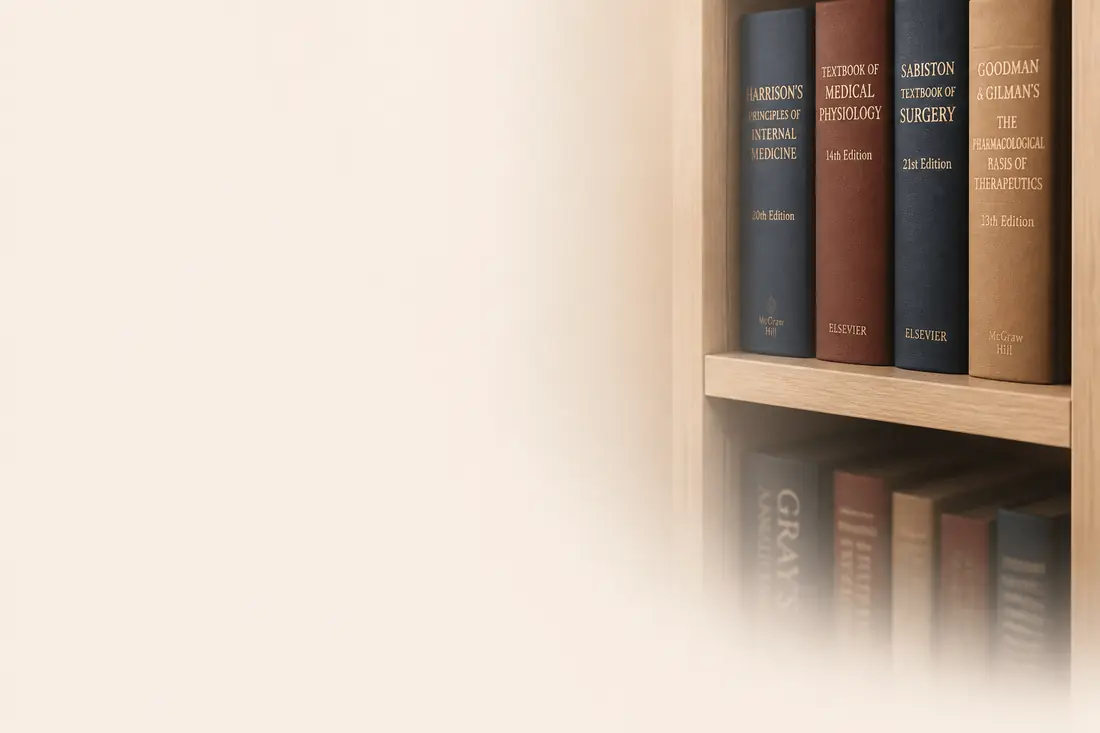
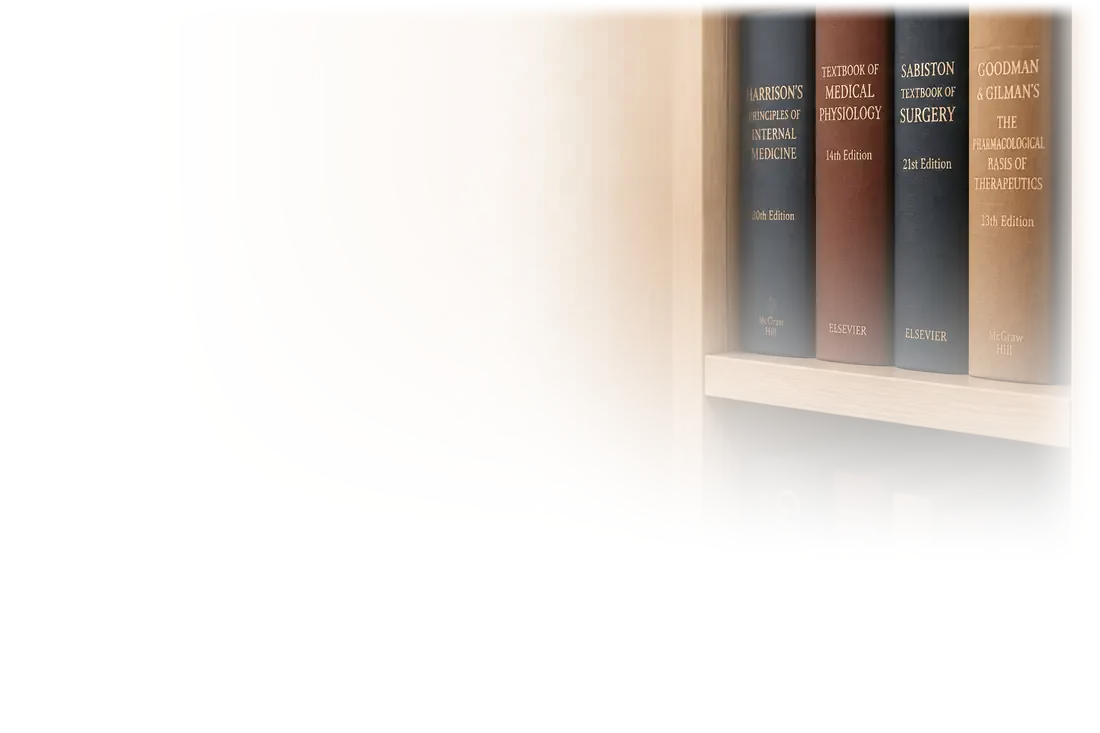
Blend top medical backdrop assets into the page
Knock out cream rectangles from the anatomy sketch and bookshelf, then fade them with alpha and CSS masks so the Today background reads as one continuous study environment.

diff --git a/app/globals.css b/app/globals.css
@@ -136,22 +136,32 @@
   user-select: none;
 }
 
+.page-backdrop-today .bd-anatomy,
+.page-backdrop-journey .bd-anatomy {
+  mix-blend-mode: multiply;
+}
+
 .page-backdrop-today .bd-anatomy {
-  top: 5.25rem;
+  top: 4.6rem;
   left: var(--frame-inset);
-  width: min(16vw, 220px);
-  max-height: 30vh;
+  width: min(22vw, 280px);
+  max-height: 52vh;
   object-position: left top;
-  opacity: 0.5;
+  opacity: 0.58;
+  -webkit-mask-image: radial-gradient(ellipse 110% 95% at 6% 8%, #000 0%, #000 34%, transparent 72%);
+  mask-image: radial-gradient(ellipse 110% 95% at 6% 8%, #000 0%, #000 34%, transparent 72%);
 }
 
 .page-backdrop-today .bd-shelf {
-  top: 5rem;
+  top: 4.4rem;
   right: var(--frame-inset);
-  width: min(18vw, 240px);
-  max-height: 26vh;
+  width: min(24vw, 300px);
+  max-height: 46vh;
   object-position: right top;
-  opacity: 0.52;
+  opacity: 0.72;
+  mix-blend-mode: multiply;
+  -webkit-mask-image: radial-gradient(ellipse 105% 90% at 96% 6%, #000 0%, #000 36%, transparent 74%);
+  mask-image: radial-gradient(ellipse 105% 90% at 96% 6%, #000 0%, #000 36%, transparent 74%);
 }
 
 .page-backdrop-today .bd-left {
@@ -194,10 +204,12 @@
 .page-backdrop-journey .bd-anatomy {
   top: 5.5rem;
   left: var(--frame-inset);
-  width: min(16vw, 200px);
-  max-height: 28vh;
+  width: min(18vw, 220px);
+  max-height: 42vh;
   object-position: left top;
-  opacity: 0.28;
+  opacity: 0.32;
+  -webkit-mask-image: radial-gradient(ellipse 110% 95% at 6% 8%, #000 0%, #000 34%, transparent 72%);
+  mask-image: radial-gradient(ellipse 110% 95% at 6% 8%, #000 0%, #000 34%, transparent 72%);
 }
 
 .page-backdrop-journey .bd-left {
@@ -242,13 +254,15 @@
     top: 5rem;
     left: 12px;
     width: min(150px, 16vw);
+    max-height: 28vh;
     opacity: 0.32;
   }
   .page-backdrop-today .bd-shelf {
     top: 4.75rem;
     right: 12px;
     width: min(170px, 18vw);
-    opacity: 0.3;
+    max-height: 24vh;
+    opacity: 0.34;
   }
 }
 
